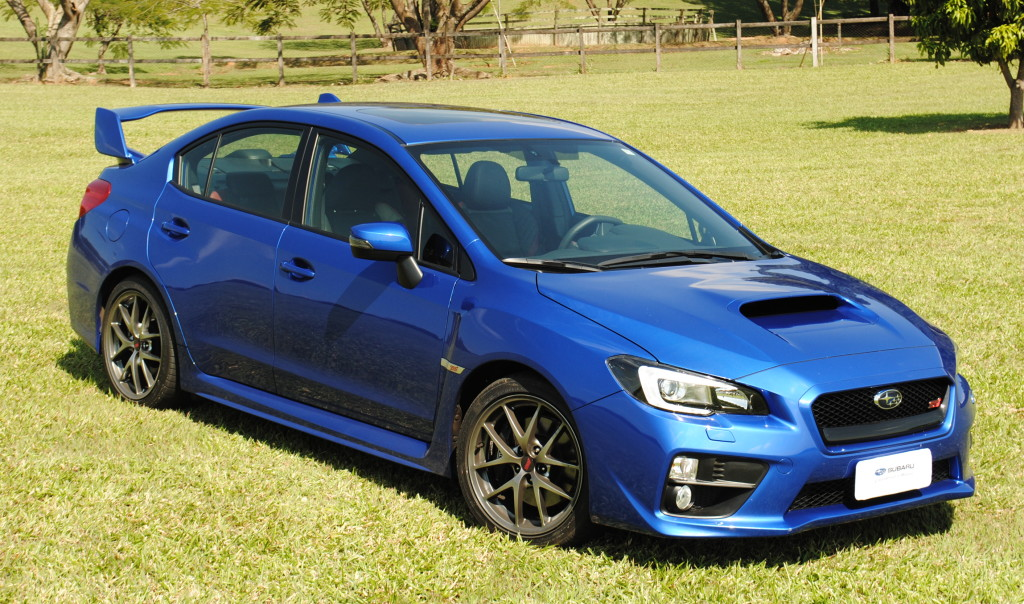
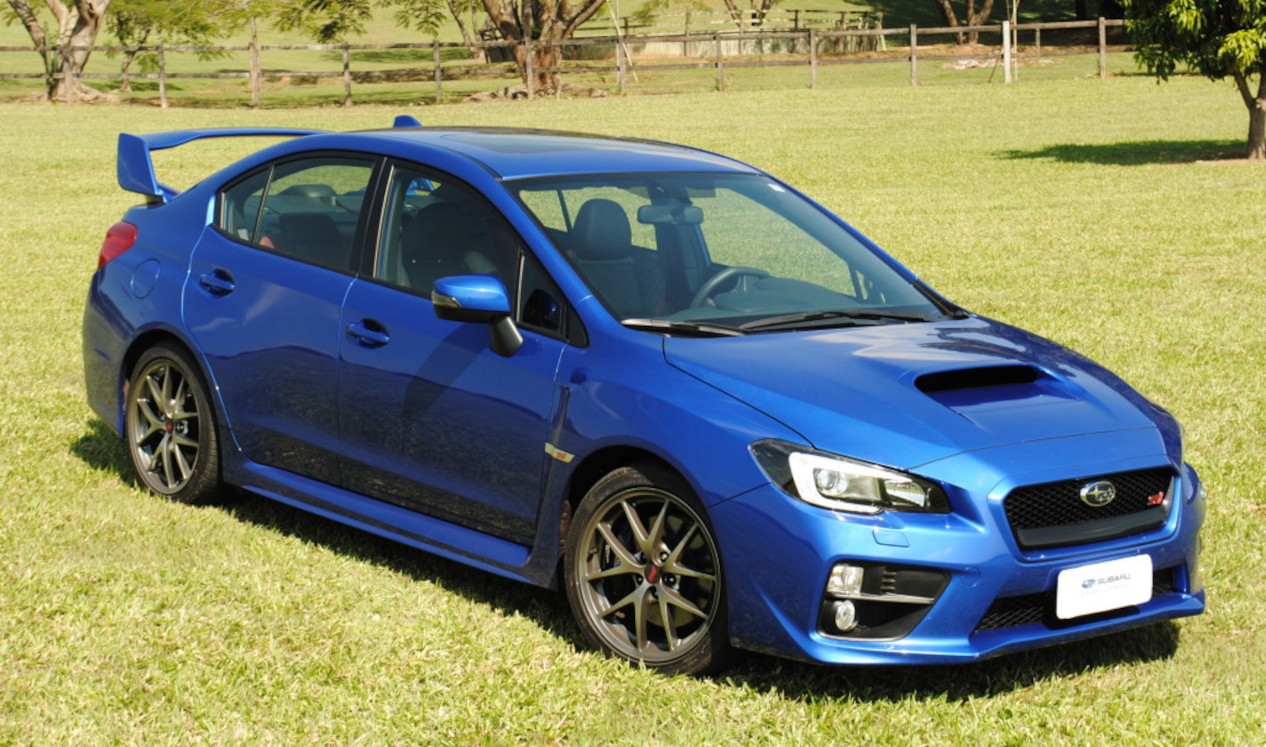
artigos e alterações nas imagens

diff --git a/index.html b/index.html
@@ -54,7 +54,7 @@
                         <a href="#" class="nav-link primary-color">Projetos</a>
                     </li>
                     <li class="nav-item">
-                        <a href="#" class="nav-link primary-color">Carros</a>
+                        <a href="#" class="nav-link primary-color">Lista</a>
                     </li>
                     <li class="nav-item">
                         <a href="#" class="nav-link primary-color">Contato</a>
@@ -95,13 +95,13 @@
             </div>
             <div class="carousel-inner">
                 <div class="carousel-item active">
-                    <img src="img/rs6.jpg" alt="RS6" class="d-block w-100" >
+                    <img src="img/rs62.jpg" alt="RS6" class="d-block w-100" >
                     <div class="carousel-caption">
                         <h5>Audi RS-6</h5>
                     <a href="#" class="btn btn-dark">Ver projetos</a></div>
                 </div>
                 <div class="carousel-item">
-                    <img src="img/sti.jpg" alt="STI" class="d-block w-100" >
+                    <img src="img/sti2.jpg" alt="STI" class="d-block w-100" >
                     <div class="carousel-caption">
                         <h5>Subaru STI</h5>
                     <a href="#" class="btn btn-dark">Ver projetos</a></div>
@@ -114,54 +114,117 @@
                 </div>
             </div>
             <button class="carousel-control-prev" type="button" data-bs-target="#slider" data-bs-slide="prev">
-                <i class="bi bi-chevron-compact-left"></i>
+                <i class="bi bi-chevron-double-left"></i>
                 <span class="visually-hidden">Previous</span>
             </button>
             <button class="carousel-control-next" type="button" data-bs-target="#slider" data-bs-slide="next">
-                <i class="bi bi-chevron-compact-right"></i>
+                <i class="bi bi-chevron-double-right"></i>
                 <span class="visually-hidden">Next</span>
             </button>
         </div>
-        <!-- MINI BANNERS -->
-        <div class="col-12 col-md-10 offset-md-1"id="mini-banners">
-            <div class="row">
-                <div class="col-12 col-md-4">
-                    <div class="card text-center">
-                        <i class="bi bi-box primary-color"></i>
-                        <div class="card-body">
-                            <h5 class="card-title primary-color">Projetos completos</h5>
-                            <p class="card-text secondary-color">Lorem ipsum dolor sit amet consectetur adipisicing elit. </p> 
-                            <a href="#" class="btn btn-dark">Saber mais</a>
-                        </div>
+    <!-- MINI BANNERS -->
+    <div class="col-12 col-md-10 offset-md-1" id="mini-banners">
+        <div class="row">
+            <div class="col-12 col-md-4">
+                <div class="card text-center">
+                    <i class="bi bi-award primary-color"></i>
+                    <div class="card-body">
+                        <h5 class="card-title primary-color">Carros Clássicos</h5>
+                        <p class="card-text secondary-color">Marcaram época e são referências <br> até hoje </p> 
+                        <a href="#" class="btn btn-dark">Saber mais</a>
                     </div>
+                </div>
 
+            </div>
+            <div class="col-12 col-md-4">
+                <div class="card text-center">
+                    <i class="bi bi-binoculars primary-color"></i>
+                    <div class="card-body">
+                        <h5 class="card-title primary-color">Anos 1990 e 2000</h5>
+                        <p class="card-text secondary-color">Os meus desejos de adolescente <br>(e de adulto!)</p> 
+                        <a href="#" class="btn btn-dark">Saber mais</a>
+                    </div>
+                </div>
+
+            </div>
+            <div class="col-12 col-md-4">
+                <div class="card text-center">
+                    <i class="bi bi-box-seam primary-color"></i>
+                    <div class="card-body">
+                        <h5 class="card-title primary-color">Últimos Lançamentos</h5>
+                        <p class="card-text secondary-color">O estado da arte da indústra automotiva. </p> 
+                        <a href="#" class="btn btn-dark">Saber mais</a>
+                    </div>
+                </div>
+
+            </div>
+        </div>
+    </div>
+
+        
+    </div>
+    <!-- DESTAQUES -->
+    <div class="container" id="feature-container">
+        <div class="col12">
+            <h2 class="title primary-color">
+                Artigos</h2>
+            <p class="subtitle secondary-color">
+                Mais acessados</p>
+        </div>
+        <div class="col12" id="featured-images">
+            <div class="row g-4">
+                <div class="col-12 col-md-4">
+                    <img src="img/fusca.jpg" alt="" class="img-fluid">
+                    <div class="banner-content">
+                     <p class="secondary-color">Veja mais</p>
+                     <h3>
+                         Fusca</h3>
+                    </div>
                 </div>
                 <div class="col-12 col-md-4">
-                    <div class="card text-center">
-                        <i class="bi bi-layers primary-color"></i>
-                        <div class="card-body">
-                            <h5 class="card-title primary-color">Dê a sua opinião</h5>
-                            <p class="card-text secondary-color">Lorem ipsum dolor sit amet consectetur adipisicing elit. </p> 
-                            <a href="#" class="btn btn-dark">Saber mais</a>
-                        </div>
+                    <img src="img/golf.jpg" alt="" class="img-fluid">
+                    <div class="banner-content">
+                     <p class="secondary-color">Veja mais</p>
+                     <h3>
+                         Golf MK1</h3>
                     </div>
-
                 </div>
                 <div class="col-12 col-md-4">
-                    <div class="card text-center">
-                        <i class="bi bi-lightning-charge primary-color"></i>
-                        <div class="card-body">
-                            <h5 class="card-title primary-color">Projetos completos</h5>
-                            <p class="card-text secondary-color">Lorem ipsum dolor sit amet consectetur adipisicing elit. </p> 
-                            <a href="#" class="btn btn-dark">Saber mais</a>
-                        </div>
+                    <img src="img/corvette.jpg" alt="" class="img-fluid">
+                    <div class="banner-content">
+                     <p class="secondary-color">Veja mais</p>
+                     <h3>
+                        Corvette Stingray</h3>
                     </div>
-
+                </div>
+                <div class="col-12 col-md-4">
+                    <img src="img/gt40.jpg" alt="" class="img-fluid">
+                    <div class="banner-content">
+                     <p class="secondary-color">Veja mais</p>
+                     <h3>
+                         GT-40</h3>
+                    </div>
+                </div>
+                <div class="col-12 col-md-4">
+                    <img src="img/skyline.jpg" alt="" class="img-fluid">
+                    <div class="banner-content">
+                     <p class="secondary-color">Veja mais</p>
+                     <h3>
+                        Skyline R34</h3>
+                    </div>
+                </div>
+                <div class="col-12 col-md-4">
+                    <img src="img/911.jpg" alt="" class="img-fluid">
+                    <div class="banner-content">
+                     <p class="secondary-color">Veja mais</p>
+                     <h3>
+                         911 Carrera</h3>
+                    </div>
                 </div>
             </div>
         </div>
-
-        </div>
     </div>
+    <!-- INFO -->
+
 </body>
 </html>

diff --git a/css/style.css b/css/style.css
@@ -73,7 +73,7 @@
 }
 
 .carousel-control-prev i, .carousel-control-next i{
-    color: #111;
+    color: #ffffff;
     font-size: 3em;
 }
 
@@ -85,6 +85,7 @@
     background-color: #000;
 }
 
+/* MEDIA QUERY */
 @media(min-width: 768){
     #slider .carousel-caption{
         bottom: 15em;
@@ -97,10 +98,92 @@
         padding: 0.6 1.6em;
         font-size: 1.2em;
     }
+
     .carousel-indicators{
         bottom: 7em;
     }   
+}
 
-    
+/* MINI BANNERS */
 
+#mini-banners {
+    margin-bottom: 4em;
+}
+#mini-banners .card {
+    padding:2em 0.3em;
+    margin-bottom: 1em;;
+}
+
+#mini-banners i {
+    font-size: 2em;
+}
+#mini-banners .card-title {
+    margin-bottom:1.5em;
+}
+#mini-banners .btn{
+    margin-top: 1.5em;
+    padding: 0.6em 1.2em;
+}
+
+/* MEDIA QUERY*/
+@media(min-width: 768){
+    #mini-banners{
+        margin-top: -6em;
+    }
+}
+
+/* DESTAQUES */
+#featured-container{
+    margin-bottom: 4em;
+}
+.title {
+    font-size: 1.75em;
+    margin-bottom: 0.4em;
+    position: relative;
+}
+    /* MINI BARRA QUE SEPARA AS SEÇÕES */
+.title:before {
+    width: 75px;
+    border-top: 4px solid #7a7a7a;
+    content: '';
+    position: absolute;
+    bottom: 2em;
+}
+#featured-images {
+    margin-top: 2em;
+
+}
+#featured-images .col-md-4 {
+    position: relative;
+    cursor: pointer;
+}
+#featured-images .col-md-4:hover> .banner-content{
+    opacity: 0.8;
+}
+
+#featured-images .banner-content {
+    position:absolute;
+    top: 0;
+    left: 0;
+    height: 100%;
+    width: 100%;
+    background-color: #fff;
+    display: flex;
+    justify-content: center;
+    align-items: center;
+    flex-direction: column;
+    opacity: 0.6;
+    transition: 0.5s;
+}
+
+@media(min-width: 768px){
+    .title {
+        font-size: 2.4em;;
+    }
+    .title:before{
+        bottom: 1.5em;
+    }
+    #featured-images .banner-content{
+        opacity: 0;
+    }
 }
